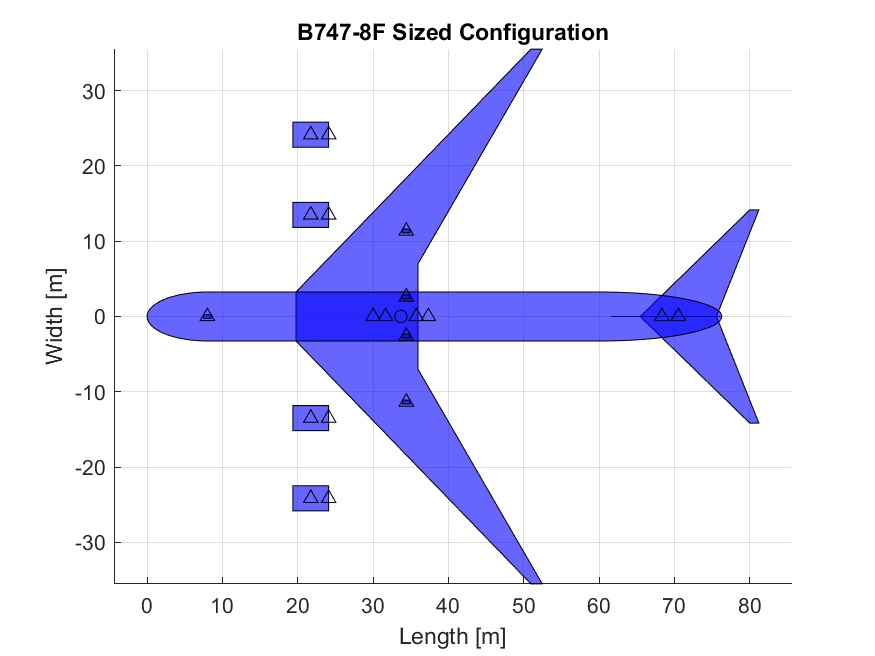
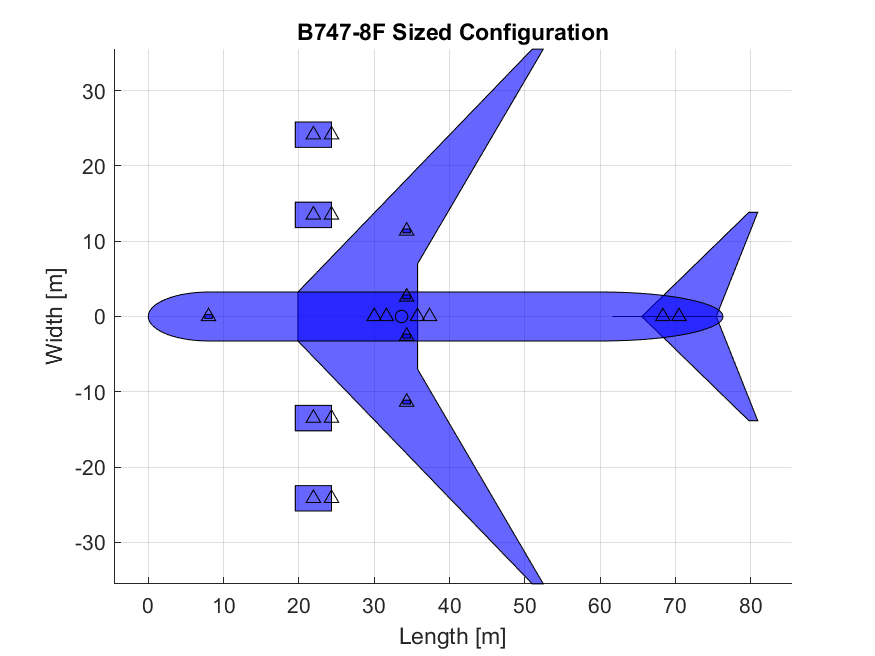
modified:   +B777/+geom/wing.m modified:   +B777/ConstraintAnalysis.m modified:   +scripts/Size_747_Custom.m modified:   Planform_747.png

diff --git a/+scripts/Size_747_Custom.m b/+scripts/Size_747_Custom.m
@@ -42,19 +42,62 @@ B777.UpdateAero(ADP);
 fprintf('Target Configuration Set.\n');
 
 % 4. Display Results
-fprintf('\n=== TARGET CONFIGURATION ===\n');
-fprintf('MTOM:      %.0f t\n', ADP.MTOM/1e3);
-fprintf('Fuel Mass: %.0f t\n', ADP.Mf_Fuel * ADP.MTOM/1e3);
-fprintf('OEM:       %.0f t\n', ADP.OEM/1e3);
-fprintf('Payload:   150 t\n');
+fprintf('\n=== TARGET CONFIGURATION RESULTS ===\n');
 
-% Check Aerodynamics
-CL_check = 0.5;
+% Robustly extract engine TSFC for table
+sfc_val = 0;
+if isprop(ADP, 'Engine') && ~isempty(ADP.Engine)
+    if iscell(ADP.Engine)
+        eObj = ADP.Engine{1};
+        if isprop(eObj, 'Engine') % Handle nested engine inside geom object
+            sfc_val = eObj.Engine.SFC_cruise;
+        elseif isprop(eObj, 'SFC_cruise')
+            sfc_val = eObj.SFC_cruise;
+        end
+    elseif isprop(ADP.Engine, 'SFC_cruise')
+        sfc_val = ADP.Engine.SFC_cruise;
+    end
+end
+
+% Create Parameter Summary Table
+Category = [
+    "Mass"; "Mass"; "Mass"; "Mass"; ...
+    "Geometry"; "Geometry"; "Geometry"; ...
+    "Engine"; "Engine"; "Engine"; "Engine"; ...
+    "Aerodynamics"; "Aerodynamics"; "Aerodynamics"
+]';
+
+Parameter = [
+    "MTOM"; "OEM"; "Fuel Mass"; "Payload"; ...
+    "Wing Area"; "Wing Span"; "Aspect Ratio"; ...
+    "Engine Type"; "Num Engines"; "Static Thrust (ea)"; "TSFC (cruise)"; ...
+    "CD0 (Zero-Lift)"; "Oswald Efficiency (e)"; "L/D max (@CL=0.5)"
+]';
+
+Value = [
+    sprintf("%.1f t", ADP.MTOM/1e3); ...
+    sprintf("%.1f t", ADP.OEM/1e3); ...
+    sprintf("%.1f t", ADP.Mf_Fuel * ADP.MTOM/1e3); ...
+    sprintf("%.1f t", ADP.TLAR.Payload/1e3); ...
+    sprintf("%.1f m^2", ADP.WingArea); ...
+    sprintf("%.1f m", ADP.Span); ...
+    sprintf("%.2f", ADP.AR()); ...
+    "UltraFan"; ...
+    "4"; ...
+    sprintf("%.1f kN", ADP.Thrust/4/1e3); ...
+    sprintf("%.2e SI", sfc_val); ...
+    sprintf("%.4f", ADP.AeroPolar.CD0); ...
+    sprintf("%.3f", ADP.AeroPolar.e); ...
+    sprintf("%.2f", 0.5/ADP.AeroPolar.CD(0.5))
+]';
+
+SpecTable = table(Category', Parameter', Value', 'VariableNames', ["Category", "Parameter", "Value"]);
+disp(SpecTable);
+
+% Check Aerodynamics Details
 if ~isempty(ADP.AeroPolar)
-    CD_check = ADP.AeroPolar.CD(CL_check);
-    fprintf('\nAERODYNAMICS:\n');
-    fprintf('CD0: %.4f\n', ADP.AeroPolar.CD0);
-    fprintf('L/D (CL=0.5): %.2f\n', CL_check/CD_check);
+    fprintf('\nDetailed Aerodynamics:\n');
+    fprintf('  Induced Factor (Beta): %.4f\n', ADP.AeroPolar.Beta);
 else
     fprintf('\nWarning: AeroPolar is empty (Sizing might have failed early).\n');
 end

diff --git a/+B777/ConstraintAnalysis.m b/+B777/ConstraintAnalysis.m
@@ -1,15 +1,18 @@
 function [ThrustToWeightRatio,WingLoading] = ConstraintAnalysis(obj)
 
 %% estimate T/W and W/S from constraint analysis
-% for now just setting to those of B777
-% ---------------------- TODO -----------------------
-% --------- update with constraint analysis ---------
-obj.ThrustToWeightRatio = (513e3*2)/(347815*9.81);
-obj.WingLoading = (347815*9.81)/(473.3*cosd(31.6));
-% obj.WingLoading = (347815*9.81)/436.8;
+% obj.WingLoading is in [kg/m^2] as per ADP.m defaults
+% obj.ThrustToWeightRatio is dimensionless T/W0
 
-% set Wing Area and Thrust
-SweepQtrChord = real(acosd(0.75.*obj.Mstar./obj.TLAR.M_c)); % quarter chord sweep angle
-obj.WingArea = obj.MTOM*9.81/obj.WingLoading/cosd(SweepQtrChord);
+% Calculate Area based on Wing Loading (kg/m^2)
+% S = MTOM / WingLoading
+obj.WingArea = obj.MTOM / obj.WingLoading;
+
+% Calculate Thrust based on T/W and Weight
 obj.Thrust = obj.ThrustToWeightRatio * obj.MTOM * 9.81;
+
+% return values
+% Note: Sizing loop might expect WingLoading in N/m^2 as return value
+ThrustToWeightRatio = obj.ThrustToWeightRatio;
+WingLoading = obj.WingLoading * 9.81; 
 end

diff --git a/+B777/+geom/wing.m b/+B777/+geom/wing.m
@@ -10,13 +10,16 @@ tr = -0.0083*SweepQtrChord + 0.4597;
 
 b = obj.Span;
 
-% FIX 1: correct wing area calculation (using Weight/Loading)
-% obj.WingLoading is in N/m^2 (Pascal), so we need Weight = MTOM * g
-if isempty(obj.WingLoading) || obj.WingLoading == 0
-    % fallback to B747-8F standard loading (~880 kg/m^2)
-    S = obj.MTOM / 880;
+% Use existing WingArea if set, otherwise calculate from loading (kg/m^2)
+if isprop(obj, 'WingArea') && ~isempty(obj.WingArea) && obj.WingArea > 1.0
+    S = obj.WingArea;
 else
-    S = obj.MTOM * 9.81 / obj.WingLoading;
+    % Fallback: obj.WingLoading is traditionally in kg/m^2
+    loading_kg_m2 = 880; % 747-8F default
+    if isprop(obj, 'WingLoading') && ~isempty(obj.WingLoading) && obj.WingLoading > 10.0
+        loading_kg_m2 = obj.WingLoading;
+    end
+    S = obj.MTOM / loading_kg_m2;
 end
 obj.WingArea = S;
 
